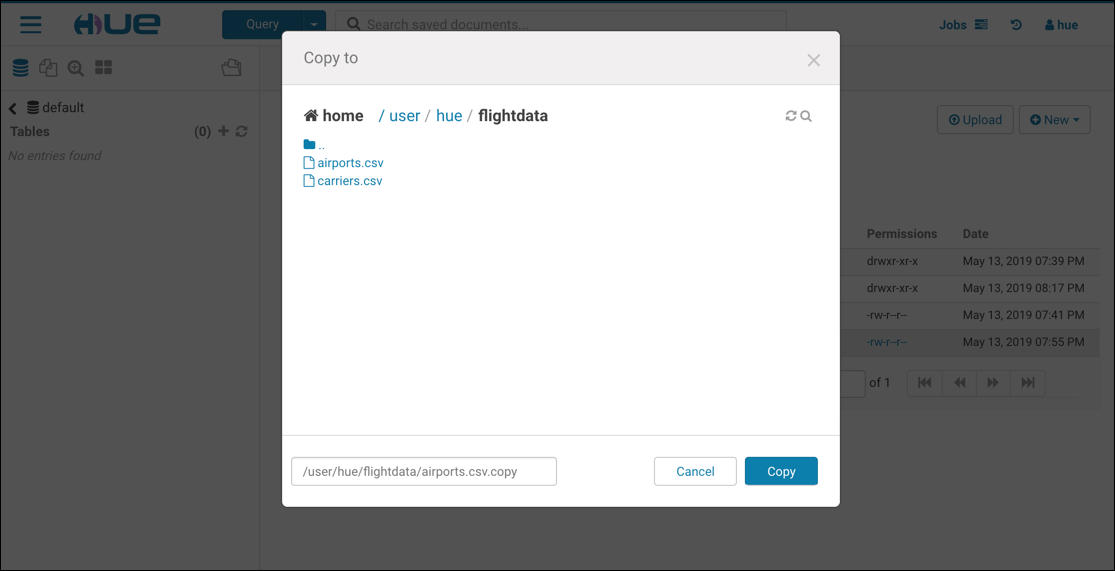
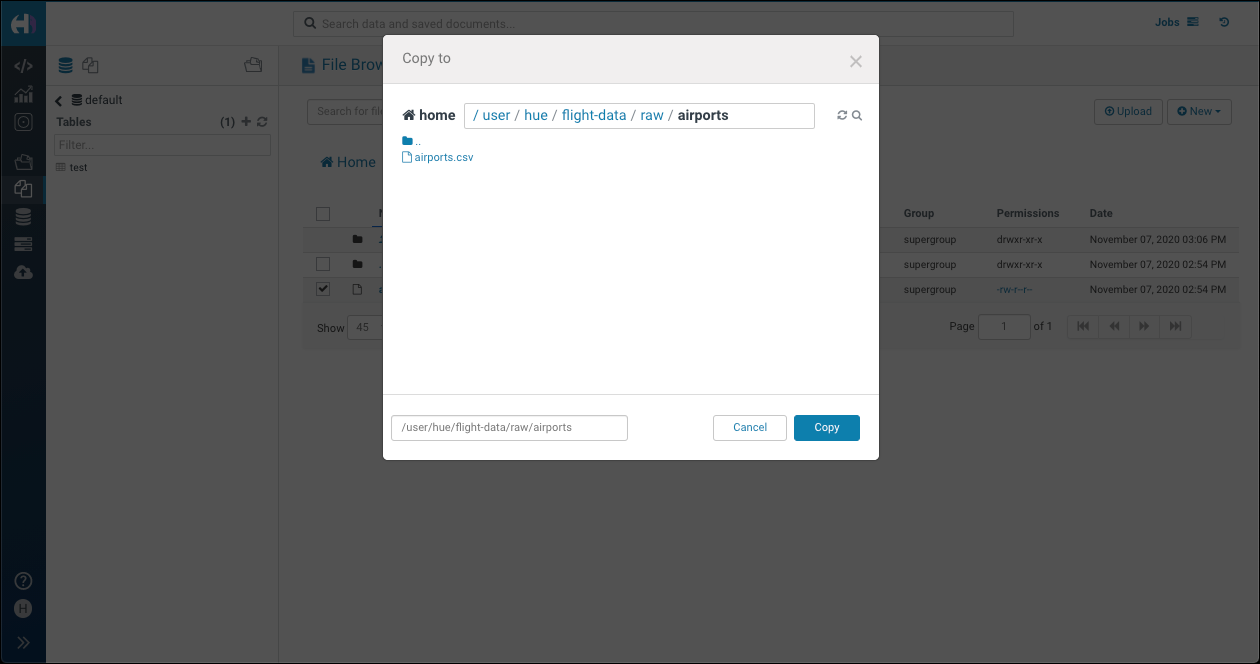
update HDFS workshop

diff --git a/02-hdfs/README.md b/02-hdfs/README.md
@@ -84,6 +84,8 @@ The general command line syntax is
 bin/hadoop command [genericOptions] [commandOptions]
 ```
 
+Find the documentation on the various options of the `hadoop fs` command here: <https://hadoop.apache.org/docs/stable/hadoop-project-dist/hadoop-common/FileSystemShell.html>
+
 So to get a directory listing of the folder `user` in HDFS, you would use
 
 ```
@@ -95,22 +97,26 @@ to get back a result similar to this
 ```
 bigdata@bigdata:~$ docker exec -ti namenode hadoop fs -ls /user
 Found 3 items
-drwxr-xr-x   - gus  gus                 0 2019-05-13 17:54 /user/gus
 drwxr-xr-x   - root supergroup          0 2019-05-13 15:59 /user/hive
-drwxr-xr-x   - hue  hue                 0 2019-05-13 18:19 /user/hue
 ```
 
 ### Using Hue
 
 [Hue](http://gethue.com/) is a web-based interactive query editor in the Hadoop stack that lets you visualise and share data.
 
-In a browser window navigate to <http://analyticsplatform:28888> and sign in with user `hue` and password `hue`. You should be forwarded to the **Hue** homepage. 
+To use it, we first have to create the "home directory" in HDFS for the user `hue`. We can do that by using the `mkdir` option of the `hadoop fs` command.
+
+```
+docker exec -ti namenode hadoop fs -mkdir -p /user/hue
+```
+
+In a browser window navigate to <http://dataplatform:28888> and sign in with user `hue` and password `hue`. You should be forwarded to the **Hue** homepage. 
 
 If asked for the tour through Hue, either follow it, or just close the window. You should end up on the Hue homepage.
 
 ![Alt Image Text](./images/hue-homepage.png "Hue Homepage")
 
-To access the File Browser, navigate to the menu by clicking on the "hamburger" icon in the top left corner and select **Browsers** | **Files**
+To access the File Browser, navigate to the menu on the left and select the **Files** icon
 
 ![Alt Image Text](./images/hue-access-file-browser.png "Hue Access File Browser")
 
@@ -132,32 +138,61 @@ To create a new folder in *Hue*, make sure that you are on the folder `/user/hue
 
 ![Alt Image Text](./images/hue-create-directory.png "Hue Create a diretory")
 
-Enter `flightdata` into the **Directory Name** and click **Create**. We will use this folder for holding some files we upload later.
+Enter `fligh-tdata` into the **Directory Name** and click **Create**. We will use this folder for holding some files we upload later.
 
-To create the folder with the **Hadoop File Command** use the `mkdir` command instead
-
-```
-docker exec -ti namenode hadoop fs -mkdir /user/hue/flightdata
-```
-
-### Uploading flightdata files
-
-Now with the directories in place, we can start uploading data. The files we upload here are rather small and part of the GitHub checkout. You can find them in the folder [/01-environment/docker/data-transfer/flightdata](../01-environment/docker/data-transfer/flightdata).
-
-We can use **Hue** to upload files, but only if they do not exceed 100 MB in size. To upload a file, navigate into the `flightdata` directory and then click on **Upload**. Now you can either drag-and-drop the files to be uploaded or click on **Select files** to use the file browser to select the files to be uploaded.
-
-Let's start with the `airports.csv` file and drag it to the pop-up window
-
-![Alt Image Text](./images/hue-upload-file.png "Hue Create a diretory")
-
-the file should now show up in the `flightdata` folder
-
-![Alt Image Text](./images/hue-file-uploaded.png "Hue Create a diretory")
-
-Now let's use the **Hadoop File Command** to upload the `carriers.csv` file as well.. 
+To create the folder with the **Hadoop File Command** instead of using **Hue**, use the `mkdir` command
 
 ```
-docker exec -ti namenode hadoop fs -copyFromLocal /data-transfer/flightdata/carriers.csv /user/hue/flightdata/
+docker exec -ti namenode hadoop fs -mkdir -p /user/hue/flight-data/raw/airports &&
+  docker exec -ti namenode hadoop fs -mkdir -p /user/hue/flight-data/raw/plane-data &&
+  docker exec -ti namenode hadoop fs -mkdir -p /user/hue/flight-data/raw/carriers && 
+  docker exec -ti namenode hadoop fs -mkdir -p /user/hue/flight-data/raw/flights
+```
+
+### Uploading the Flight data files
+
+Now with the directories in place, we can start uploading data. The files we upload here are rather small. They have been downloaded in the `data-transfer` folder when creating the dataplaform. 
+
+Use the `ls` command on the docker host
+
+```
+ls -lsa $DATAPLATFORM_HOME/data-transfer/flight-data/
+```
+
+and you should see the following files
+
+```
+ubuntu@ip-172-26-6-34:~/hadoop-spark-workshop/01-environment/docker-hdfs$ ls -lsa $DATAPLATFORM_HOME/data-transfer/flight-data
+total 2336
+  4 drwxr-xr-x 4 root   root     4096 Nov  7 12:28 .
+  4 drwxr-xr-x 3 ubuntu ubuntu   4096 Nov  7 12:17 ..
+  4 -rw-r--r-- 1 root   root     1952 Nov  7 12:28 README.md
+240 -rwxr-xr-x 1 root   root   244438 Nov  7 12:28 airports.csv
+588 -rw-r--r-- 1 root   root   598901 Nov  7 12:28 airports.json
+ 44 -rwxr-xr-x 1 root   root    43758 Nov  7 12:28 carriers.csv
+ 76 -rw-r--r-- 1 root   root    76537 Nov  7 12:28 carriers.json
+  4 drwxr-xr-x 2 root   root     4096 Nov  7 12:28 flights-medium
+  4 drwxr-xr-x 2 root   root     4096 Nov  7 12:28 flights-small
+420 -rwxr-xr-x 1 root   root   428558 Nov  7 12:28 plane-data.csv
+948 -rw-r--r-- 1 root   root   968807 Nov  7 12:28 plane-data.json
+```
+
+We can use **Hue** to upload files, but only if they do not exceed 100 MB in size. And the files have to available on the machine where the web browser runs on. 
+
+To upload a file, navigate to the directory where the file should be uploaded to and then click on **Upload**. Now you can either drag-and-drop the files to be uploaded or click on **Select files** to use the file browser to select the files to be uploaded.
+
+![Alt Image Text](./images/hue-upload-file.png "Hue Create a directory")
+
+Two of the files (`airports.csv` and `carriers.json`) to be uploaded are also checked into Github and are available here: <https://github.com/gschmutz/hadoop-spark-workshop/tree/master/02-hdfs/flightdata>. Download them to your local machine to be able to upload them using Hue. 
+
+Alternatively use the **Hadoop File Command** to upload all the files.
+
+```
+docker exec -ti namenode hadoop fs -copyFromLocal /data-transfer/flight-data/airports.csv /user/hue/flight-data/raw/airports
+
+docker exec -ti namenode hadoop fs -copyFromLocal /data-transfer/flight-data/carriers.json /user/hue/flight-data/raw/carriers
+
+docker exec -ti namenode hadoop fs -copyFromLocal /data-transfer/flight-data/plane-data.csv /user/hue/flight-data/raw/plane-data
 ```
 
 ### Viewing directory content
@@ -165,19 +200,25 @@ docker exec -ti namenode hadoop fs -copyFromLocal /data-transfer/flightdata/carr
 To see a listing of files we have uploaded from the command line, just perform 
 
 ```
-docker exec -ti namenode hadoop fs -ls /user/hue/flightdata/
+docker exec -ti namenode hadoop fs -lsr /user/hue/flight-data/
 ```
 
 and you should see an output similar to the one below.
 
 ```
-bigdata@bigdata:~$ docker exec -ti namenode hadoop fs -ls /user/hue/flightdata/
-Found 2 items
--rw-r--r--   3 hue  hue     244438 2019-05-13 19:41 /user/hue/flightdata/airports.csv
--rw-r--r--   3 root hue      43758 2019-05-13 19:55 /user/hue/flightdata/carriers.csv
+ubuntu@ip-172-26-6-34:~/hadoop-spark-workshop/01-environment/docker-hdfs$ docker exec -ti namenode hadoop fs -lsr /user/hue/flight-data/
+lsr: DEPRECATED: Please use 'ls -R' instead.
+drwxr-xr-x   - root supergroup          0 2020-11-07 15:06 /user/hue/flight-data/raw
+drwxr-xr-x   - root supergroup          0 2020-11-07 14:54 /user/hue/flight-data/raw/airports
+-rw-r--r--   3 root supergroup     244438 2020-11-07 14:54 /user/hue/flight-data/raw/airports/airports.csv
+drwxr-xr-x   - root supergroup          0 2020-11-07 14:55 /user/hue/flight-data/raw/carriers
+-rw-r--r--   3 root supergroup      76537 2020-11-07 14:55 /user/hue/flight-data/raw/carriers/carriers.json
+drwxr-xr-x   - root supergroup          0 2020-11-07 14:54 /user/hue/flight-data/raw/flights
+drwxr-xr-x   - hue  supergroup          0 2020-11-07 15:05 /user/hue/flight-data/raw/plane-data
+-rw-r--r--   3 root supergroup     428558 2020-11-07 15:05 /user/hue/flight-data/raw/plane-data/plane-data.csv
 ```
 
-Of course we can see the same in **Hue** as well. 
+Of course we can also use **Hue** to navigate to the folders and see that the files have been uploaded successfully. 
 
 ### Viewing content of a file
 
@@ -194,28 +235,28 @@ You can use the controls at the top to page through the content of the file.
 To show the content of the file from the **Hadoop File Command` you use the `cat` command. 
 
 ```
-docker exec -ti namenode hadoop fs -cat /user/hue/flightdata/carriers.csv | head
+docker exec -ti namenode hadoop fs -cat /user/hue/flight-data/raw/plane-data/plane-data.csv | head
 ```
 
 because we pipe the result of the `cat` command into head, we only see the first 10 rows
 
 ```
-bigdata@bigdata:~$ docker exec -ti namenode hadoop fs -cat /user/hue/flightdata/carriers.csv | head
-Code,Description
-"02Q","Titan Airways"
-"04Q","Tradewind Aviation"
-"05Q","Comlux Aviation, AG"
-"06Q","Master Top Linhas Aereas Ltd."
-"07Q","Flair Airlines Ltd."
-"09Q","Swift Air, LLC"
-"0BQ","DCA"
-"0CQ","ACM AIR CHARTER GmbH"
-"0FQ","Maine Aviation Aircraft Charter, LLC"
+ubuntu@ip-172-26-6-34:~/hadoop-spark-workshop/01-environment/docker-hdfs$ docker exec -ti namenode hadoop fs -cat /user/hue/flight-data/raw/plane-data/plane-data.csv | head
+2020-11-07 15:07:25,991 INFO sasl.SaslDataTransferClient: SASL encryption trust check: localHostTrusted = false, remoteHostTrusted = false
+tailnum,type,manufacturer,issue_date,model,status,aircraft_type,engine_type,year
+N10156,Corporation,EMBRAER,02/13/2004,EMB-145XR,Valid,Fixed Wing Multi-Engine,Turbo-Fan,2004
+N102UW,Corporation,AIRBUS INDUSTRIE,05/26/1999,A320-214,Valid,Fixed Wing Multi-Engine,Turbo-Fan,1998
+N10323,Corporation,BOEING,07/01/1997,737-3TO,Valid,Fixed Wing Multi-Engine,Turbo-Jet,1986
+N103US,Corporation,AIRBUS INDUSTRIE,06/18/1999,A320-214,Valid,Fixed Wing Multi-Engine,Turbo-Fan,1999
+N104UA,Corporation,BOEING,01/26/1998,747-422,Valid,Fixed Wing Multi-Engine,Turbo-Fan,1998
+N104UW,Corporation,AIRBUS INDUSTRIE,07/02/1999,A320-214,Valid,Fixed Wing Multi-Engine,Turbo-Fan,1999
+N10575,Corporation,EMBRAER,06/24/2003,EMB-145LR,Valid,Fixed Wing Multi-Engine,Turbo-Fan,2002
+N105UA,Corporation,BOEING,10/15/2007,747-451,Valid,Fixed Wing Multi-Engine,Turbo-Jet,1994
 ```
 
-### Copying files
+### Copying files to HDFS
 
-In **Hue** you can find various operations on file and directory level in the **Action** drop-down menu in the top menu bar. To make a copy of the `airports.csv` file, select the file and select **Action** and navigate to **Copy**
+In **Hue** you can perform various operations on file and directory level. You can find these in the **Action** drop-down menu above the file browser. To make a copy of the `airports.csv` file, select the file and select **Action** and navigate to **Copy**
 
 ![Alt Image Text](./images/hue-copy.png "Hue Copy File")
 
@@ -223,36 +264,45 @@ In the pop-up window enter the path of the new file into the edit field and clic
 
 ![Alt Image Text](./images/hue-copy-2.png "Hue Copy File")
 
-A copy of the file is made and put into the same folder. 
+A copy of the file is made and put into the folder specified. 
+
 
 To copy the `carriers.csv` file using the **Hadoop File Command**, perform the following command
 
 ```
-docker exec -ti namenode hadoop fs -cp /user/hue/flightdata/carriers.csv /user/hue/flightdata/carriers.csv.save
+docker exec -ti namenode hadoop fs -mkdir -p /user/hue/flight-data/backup
+
+docker exec -ti namenode hadoop fs -cp /user/hue/flight-data/raw/airports/airports.csv /user/hue/flight-data/backup/airports.csv
 ```
 
 ### Download a file from HDFS to the local filesystem
 
-To download a file in **Hue**, select the `airports.csv.save` file in the **File Browser** and click **Actions** and **Download**. 
+To download a file in **Hue**, select the `airports.csv` file in the **File Browser** and click **Actions** and **Download**. 
 
 ![Alt Image Text](./images/hue-download.png "Hue Download File")
 
 The file will end up in the downloads folder of your browser.
 
 
-To download the `carriers.csv.save` file using the **Hadoop File Command**, perform the following command
+To download the `airports.csv` file using the **Hadoop File Command**, perform the following command
 
 ```
-docker exec -ti namenode hadoop fs -copyToLocal /user/hue/flightdata/carriers.save.csv /data-transfer
+docker exec -ti namenode hadoop fs -copyToLocal /user/hue/flight-data/raw/airports/airports.csv /data-transfer
 ```
 
-the file should end up in the `data-transfer' folder on the docker machine. 
+and a file should be written to the `$DATAPLATFORM_HOME/data-transfer` folder on the docker machine. 
 
 ```
-ls 01-environment/docker/data-transfer/
+ls $DATAPLATFORM_HOME/data-transfer/
 ```
 
-### Removing files
+As we don't need it locally, let's remove it. 
+
+```
+sudo rm $DATAPLATFORM_HOME/data-transfer/airports.csv
+```
+
+### Removing files in HDFS
 
 To remove a file in **Hue**, select the file and click **Delete Forever**. 
 
@@ -261,37 +311,33 @@ To remove a file in **Hue**, select the file and click **Delete Forever**.
 Confirm the delete by clicking on **Yes** and the file will be removed immediately. 
 
 
-To delete the `carriers.csv.save` file using the **Hadoop File Command**, perform the following command
+To delete the `airports.csv` file in the backup folder using the **Hadoop File Command**, perform the following command
 
 ```
-docker exec -ti namenode hadoop fs -rm /user/hue/flightdata/carriers.csv.save
+docker exec -ti namenode hadoop fs -rm /user/hue/flight-data/backup/airports.csv
 ```
 
-## Upload movie data for later use
+## Upload flights for later use
 
-We are going to upload data for the following entities: `basics`, `crew`, `principals` and `name`. Create a subfolder underneath `/user/hue/filmdata` for each entity
+Next let's upload some flights data files, all documenting flights in April and May of 2008.
 
-```
-docker exec -ti namenode hadoop fs -mkdir /user/hue/filmdata/basics
-docker exec -ti namenode hadoop fs -mkdir /user/hue/filmdata/crew
-docker exec -ti namenode hadoop fs -mkdir /user/hue/filmdata/principals
-docker exec -ti namenode hadoop fs -mkdir /user/hue/filmdata/name
-```
-
-First let's download the sample data
+Let's use the same command as above to upload the first file using the ** Hadoop File Command**:
 
 ```
-mkdir flight
-cd flight
-curl http://stat-computing.org/dataexpo/2009/2008.csv.bz2 -o 2008.csv.bz2
-bzip2 -d 2008.csv.bz2
+docker exec -ti namenode hadoop fs -copyFromLocal /data-transfer/flight-data/flights-small/flights_2008_4_1.csv /user/hue/flight-data/raw/flights
+```
 
-curl http://stat-computing.org/dataexpo/2009/airports.csv -o airports.csv
-curl http://stat-computing.org/dataexpo/2009/plane-data.csv -o plane-data.csv
-curl http://stat-computing.org/dataexpo/2009/carriers.csv -o carriers.csv
+you can also specify multiple source file to be loaded into the destination in HDFS:
 
 ```
-	
+docker exec -ti namenode hadoop fs -copyFromLocal /data-transfer/flight-data/flights-small/flights_2008_4_2.csv /data-transfer/flight-data/flights-small/flights_2008_5_1.csv /data-transfer/flight-data/flights-small/flights_2008_5_2.csv /data-transfer/flight-data/flights-small/flights_2008_5_3.csv  /user/hue/flight-data/raw/flights
+```
+
+All these files are no available in the HDFS under the `/user/hue/flight-data/raw/flights` folder.
+
+![Alt Image Text](./images/hdfs-flights.png "HDFS flights")
+
+
 
 
 
